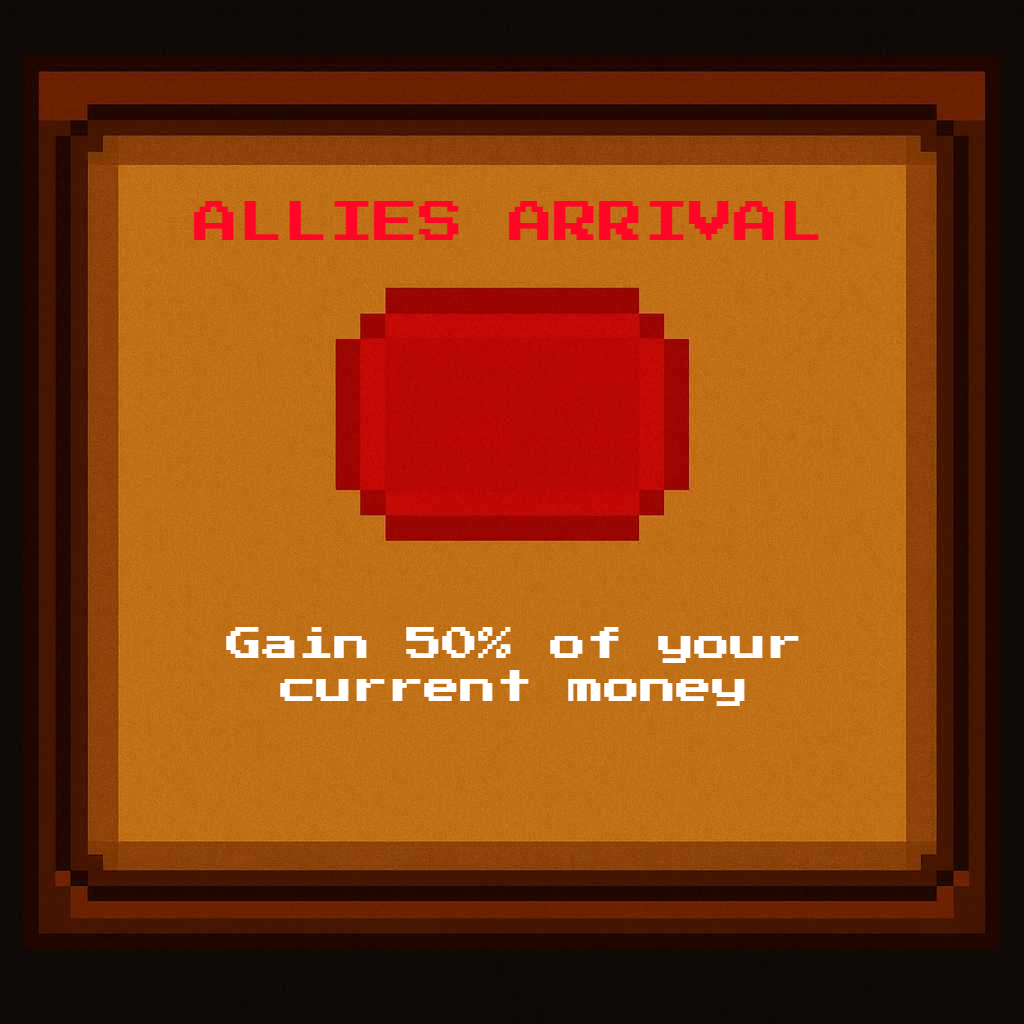
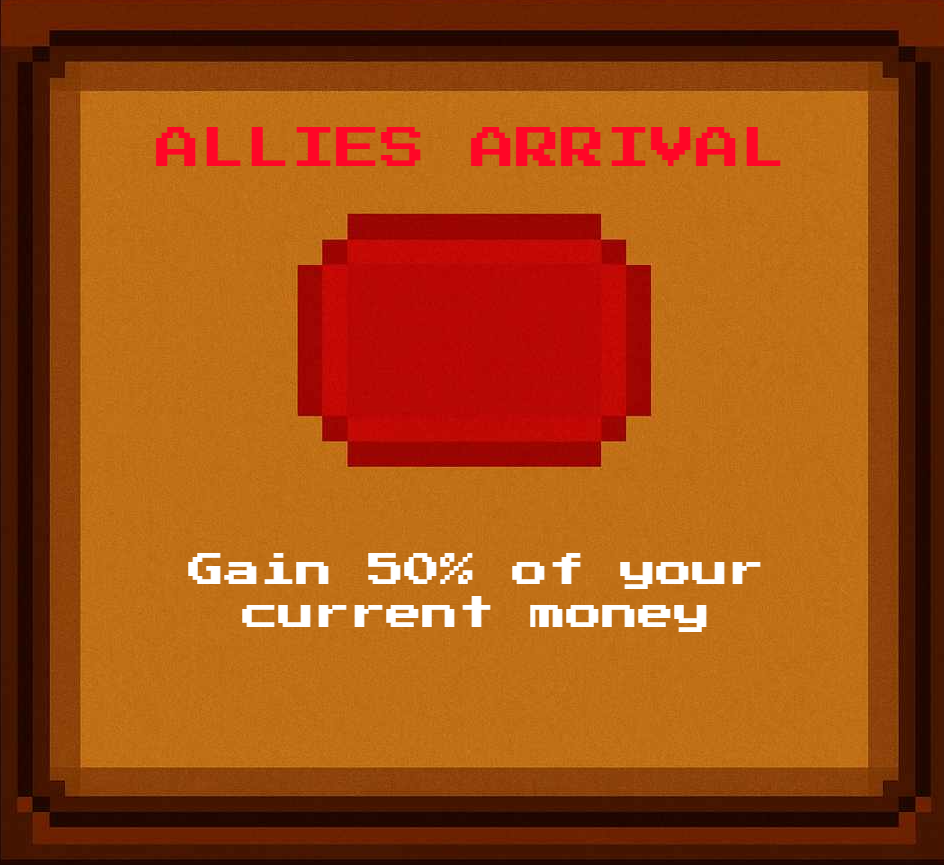
Panels for effect

diff --git a/InitGame.cpp b/InitGame.cpp
@@ -1855,7 +1855,7 @@ void Game::initUIFlow()
 
 		auto Eff1 = m_scenes[AppState::Effect1].addEntity("Effect1");
 		Eff1->cSet = make_shared<CSet>("IMGS/Effects/RecoverEff.png");
-		Eff1->cPosition = make_shared<CPosition>(Vector2f(m_windowConfig.width / 2.f - 40, m_windowConfig.height / 2.f - 60));
+		Eff1->cPosition = make_shared<CPosition>(Vector2f(m_windowConfig.width / 2.f - 64, m_windowConfig.height / 2.f - 128));
 		Eff1->cInput = make_shared<CInput>([this]()
 			{
 				m_state1 = AppState::Dummy;
@@ -1878,13 +1878,13 @@ void Game::initUIFlow()
 		auto panel = m_scenes[AppState::Effect2].addEntity("EffectPanel");
 		panel->cSet = make_shared<CSet>("IMGS/GUI/Eff2Panel.png");
 		panel->cPosition = make_shared<CPosition>(Vector2f(m_windowConfig.width / 2.f, m_windowConfig.height / 2.f));
-		panel->cSet->sprite.setOrigin(panel->cSet->sprite.getLocalBounds().width / 2.f - 40, panel->cSet->sprite.getLocalBounds().height / 2.f - 60);
+		panel->cSet->sprite.setOrigin(panel->cSet->sprite.getLocalBounds().width / 2.f, panel->cSet->sprite.getLocalBounds().height / 2.f);
 		panel->cSet->sprite.setScale(0.75f, 0.75f);
 
 
 		auto Eff2 = m_scenes[AppState::Effect2].addEntity("Effect2");
 		Eff2->cSet = make_shared<CSet>("IMGS/Effects/CoinAddEff.png");
-		Eff2->cPosition = make_shared<CPosition>(Vector2f(m_windowConfig.width / 2.f, m_windowConfig.height / 2.f - 40));
+		Eff2->cPosition = make_shared<CPosition>(Vector2f(m_windowConfig.width / 2.f - 64, m_windowConfig.height / 2.f - 128));
 		Eff2->cInput = make_shared<CInput>([this]()
 			{
 				m_state1 = AppState::Dummy;
@@ -1913,7 +1913,7 @@ void Game::initUIFlow()
 
 		auto Eff3 = m_scenes[AppState::Effect3].addEntity("Effect3");
 		Eff3->cSet = make_shared<CSet>("IMGS/Effects/DeadEff.png");
-		Eff3->cPosition = make_shared<CPosition>(Vector2f(m_windowConfig.width / 2.f - 40, m_windowConfig.height / 2.f - 60));
+		Eff3->cPosition = make_shared<CPosition>(Vector2f(m_windowConfig.width / 2.f - 64, m_windowConfig.height / 2.f - 128));
 		Eff3->cInput = make_shared<CInput>([this]()
 			{
 				m_state1 = AppState::Dummy;
@@ -1951,7 +1951,7 @@ void Game::initUIFlow()
 
 		auto Eff4 = m_scenes[AppState::Effect4].addEntity("Effect4");
 		Eff4->cSet = make_shared<CSet>("IMGS/Effects/MagicEff.png");
-		Eff4->cPosition = make_shared<CPosition>(Vector2f(m_windowConfig.width / 2.f - 40, m_windowConfig.height / 2.f - 60));
+		Eff4->cPosition = make_shared<CPosition>(Vector2f(m_windowConfig.width / 2.f - 64, m_windowConfig.height / 2.f - 128));
 		Eff4->cInput = make_shared<CInput>([this]()
 			{
 				m_state1 = AppState::Dummy;
